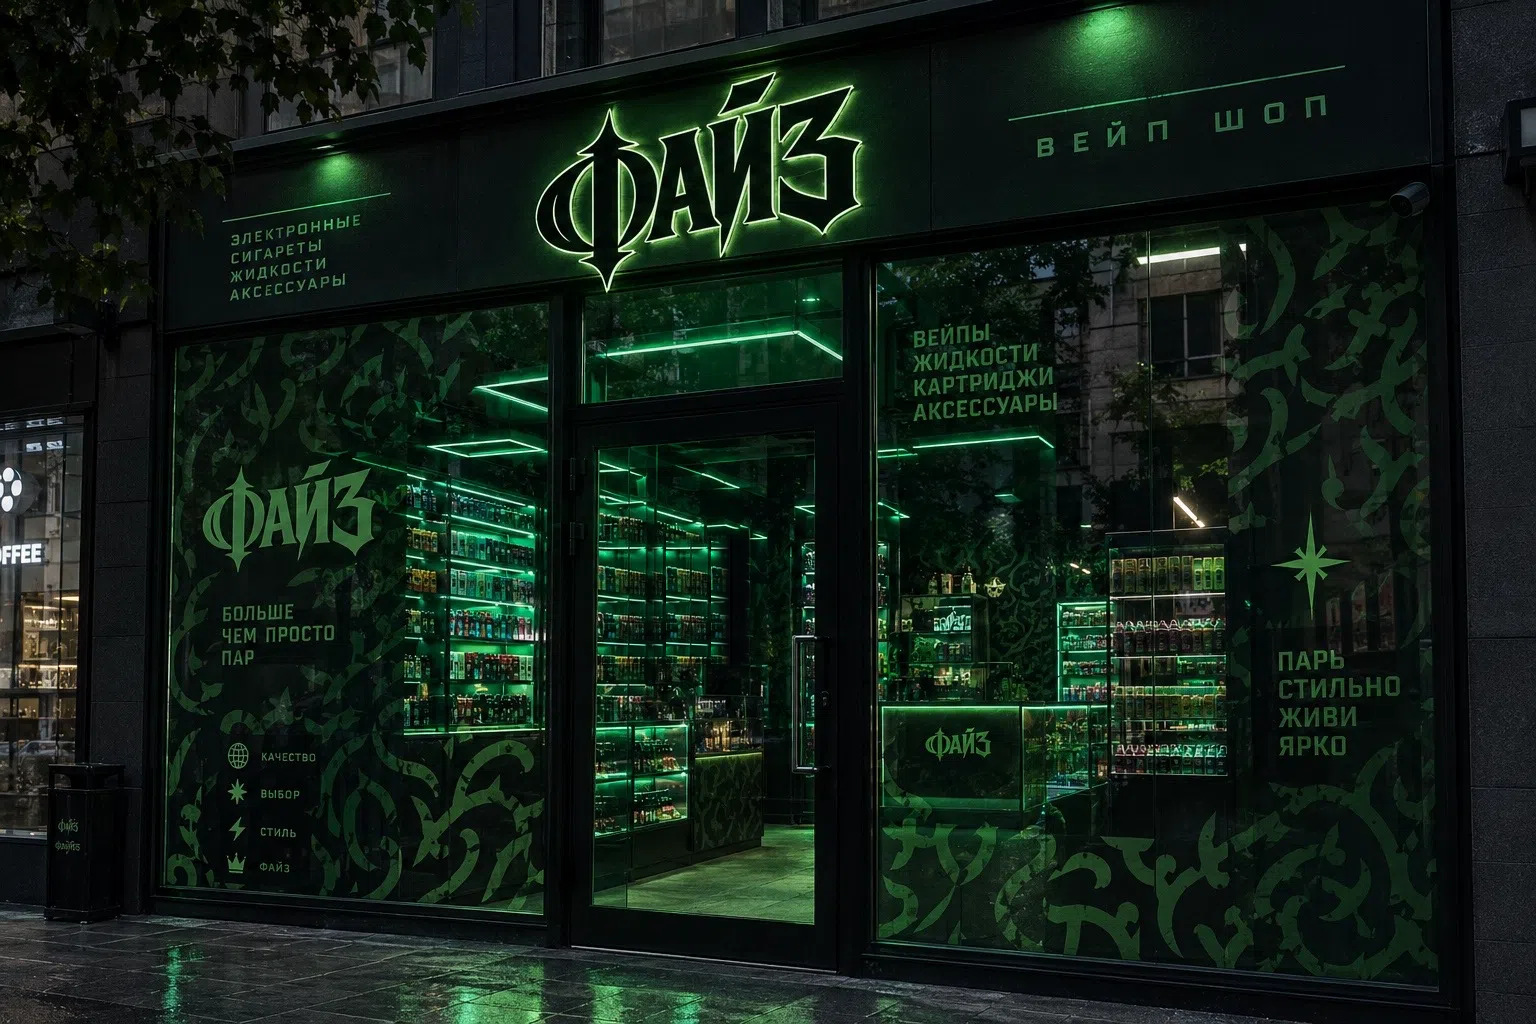
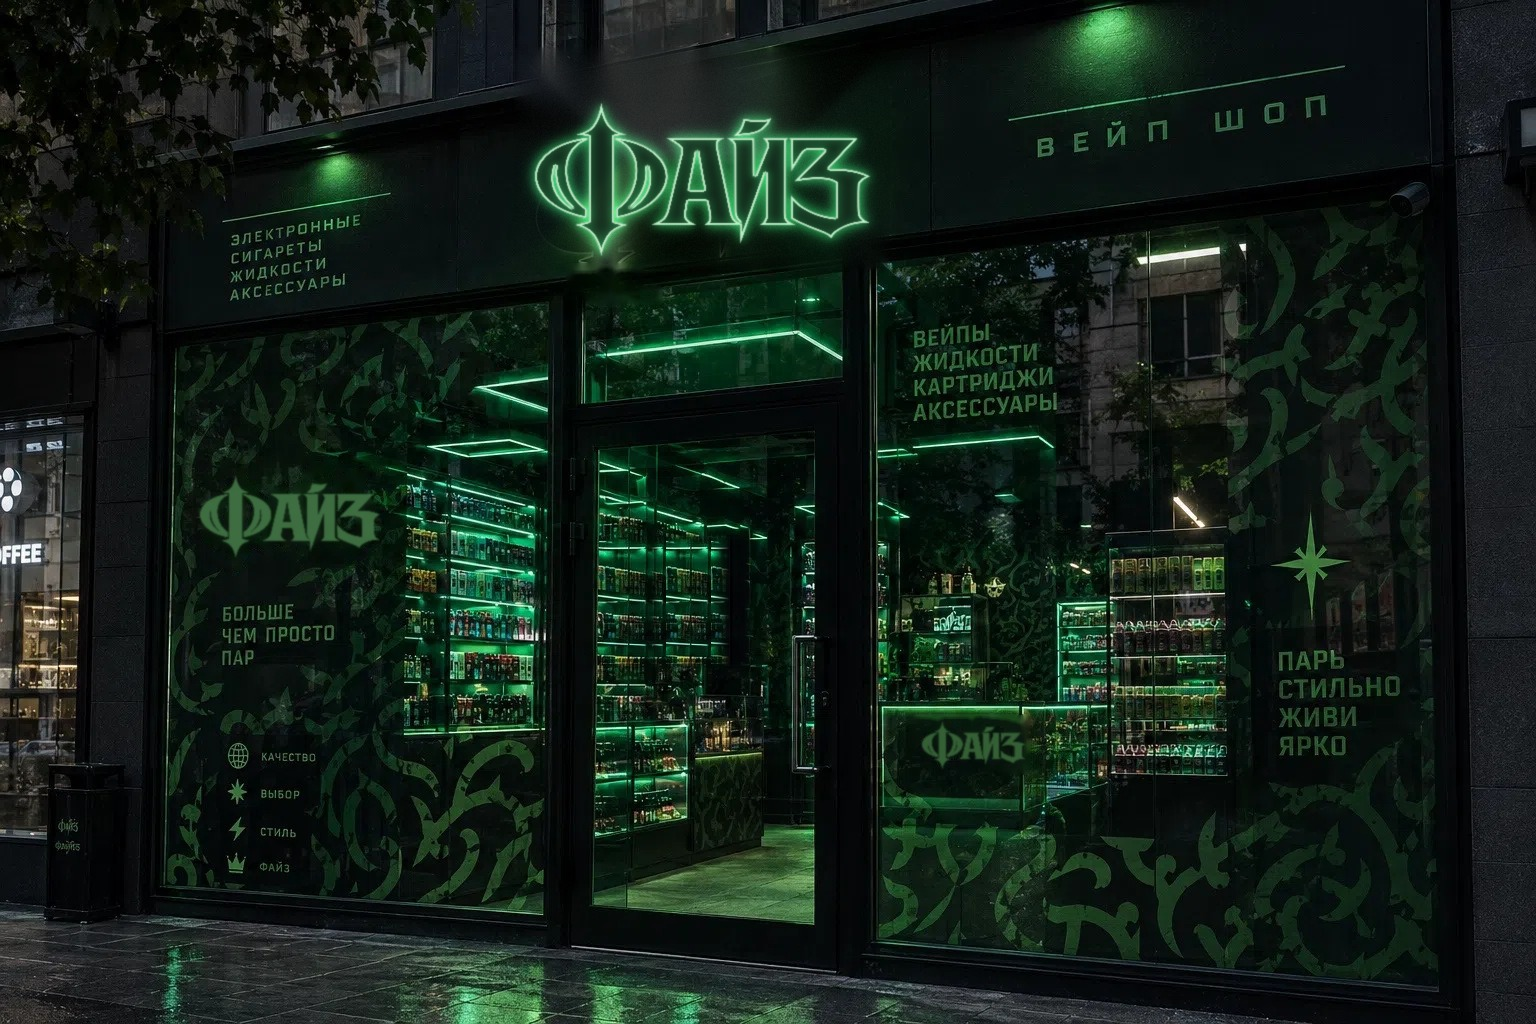
Фото экскурсии: искажённый логотип заменён на фирменный
Claude-Session: https://claude.ai/code/session_01VSfWyZc3nPNVEDJTGM8n6H

Changed region(s): [[0.3438, 0.0312, 0.5625, 0.2812], [0.125, 0.4375, 0.25, 0.5625], [0.5938, 0.6875, 0.6875, 0.75]]

diff --git a/index.html b/index.html
@@ -850,26 +850,26 @@ const mw=$$('#manifest .w');
 (()=>{
 const app=document.getElementById('tour'); if(!app) return;
 const S=[
-  {id:'facade',name:'Фасад',zone:'Улица',img:'img/facade.jpg',f:[.46,.6],
+  {id:'facade',name:'Фасад',zone:'Улица',img:'img/facade.jpg?v=3',f:[.46,.6],
    text:'Неоновая вывеска, панорамные витрины и узор из фирменных завитков. Дверь подсвечена — заходите.',
    door:{x:37.4,y:39.5,w:17.3,h:54.5},spots:[]},
-  {id:'main',name:'Главный зал',zone:'Зал',img:'img/interior.jpg',f:[.5,.5],
+  {id:'main',name:'Главный зал',zone:'Зал',img:'img/interior.jpg?v=3',f:[.5,.5],
    text:'Стеклянные стеллажи с подсветкой каждой полки. Весь ассортимент стоит на виду.',
    spots:[{x:35,y:60,to:'counter',label:'Стойка'},{x:80,y:40,to:'shelves',label:'Стеллажи'},
           {x:23,y:11,info:'Над стеллажами — перечень разделов магазина, чтобы сразу найти нужное.'}]},
-  {id:'counter',name:'Стойка',zone:'Касса',img:'img/counter.jpg',f:[.5,.38],
+  {id:'counter',name:'Стойка',zone:'Касса',img:'img/counter.jpg?v=3',f:[.5,.38],
    text:'Брендированная стойка с подсвеченным логотипом. Покупки упаковывают в фирменные пакеты ФАЙЗ.',
    spots:[{x:58,y:13,info:'Логотип на панели с контурной подсветкой.'},
           {x:12,y:30,info:'Стена с крупной типографикой в фирменном зелёном.'},
           {x:55,y:38,to:'shelves',label:'К стеллажам'},
           {x:22,y:55,info:'Фирменные пакеты ФАЙЗ — чёрные, с логотипом.'}]},
-  {id:'shelves',name:'Стеллажи',zone:'Ассортимент',img:'img/shelves.jpg',f:[.5,.45],
+  {id:'shelves',name:'Стеллажи',zone:'Ассортимент',img:'img/shelves.jpg?v=3',f:[.5,.45],
    text:'Позиции разложены по линейкам, подсветка по краю полки делает каждую позицию читаемой.',
    spots:[{x:40,y:34,info:'Флаконы расставлены по брендам.'},{x:48,y:66,to:'consult',label:'Консультация'}]},
-  {id:'consult',name:'Консультация',zone:'Сервис',img:'img/consult.jpg',f:[.5,.45],
+  {id:'consult',name:'Консультация',zone:'Сервис',img:'img/consult.jpg?v=3',f:[.5,.45],
    text:'Консультант поможет подобрать нужное и объяснит разницу между линейками.',
    spots:[{x:52,y:41,info:'Подбор прямо у витрины: консультант показывает линейки и объясняет разницу.'},{x:84,y:30,to:'lifestyle',label:'Зона отдыха'}]},
-  {id:'lifestyle',name:'Зона отдыха',zone:'Отдых',img:'img/lifestyle.jpg',f:[.5,.55],
+  {id:'lifestyle',name:'Зона отдыха',zone:'Отдых',img:'img/lifestyle.jpg?v=3',f:[.5,.55],
    text:'Кресло, столик и вид на улицу через витрину с логотипом. Место, где можно не спешить.',
    spots:[{x:55,y:66,info:'Мягкое кресло и столик — можно присесть и спокойно рассмотреть покупку.',left:true},{x:86,y:42,to:'main',label:'Обратно в зал',left:true}]}
 ];
